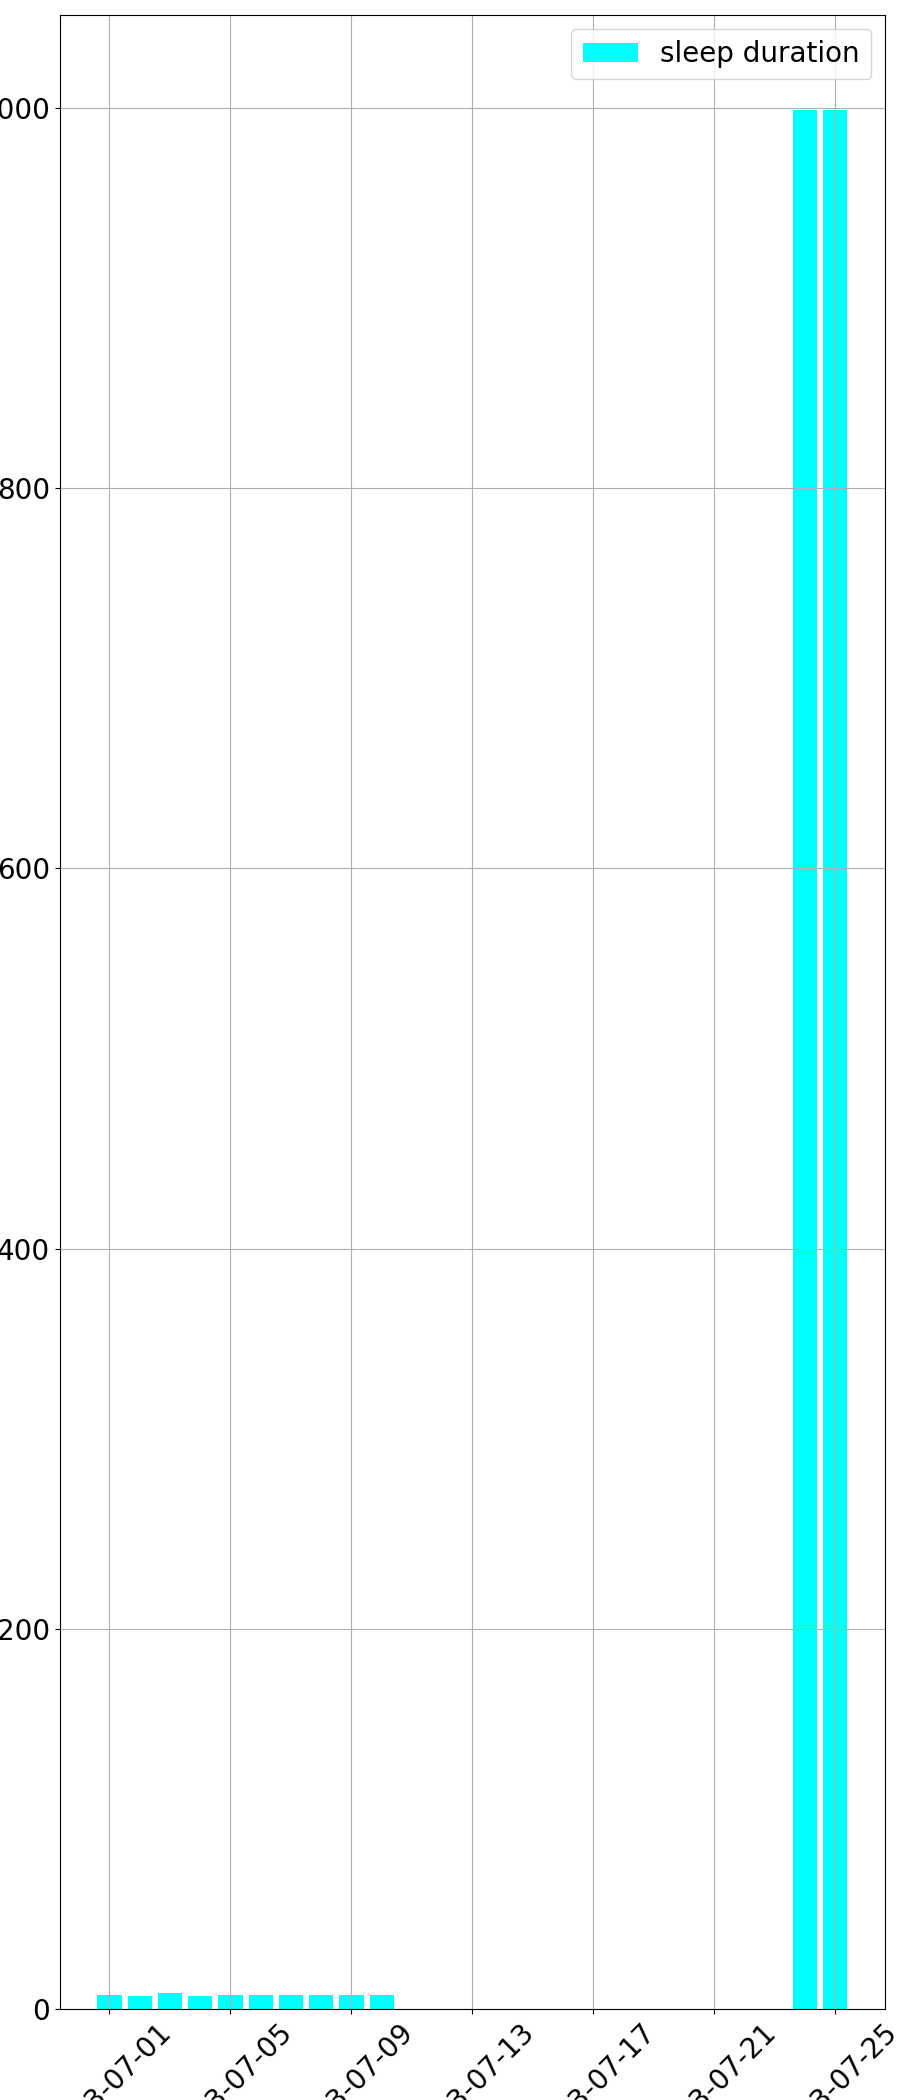
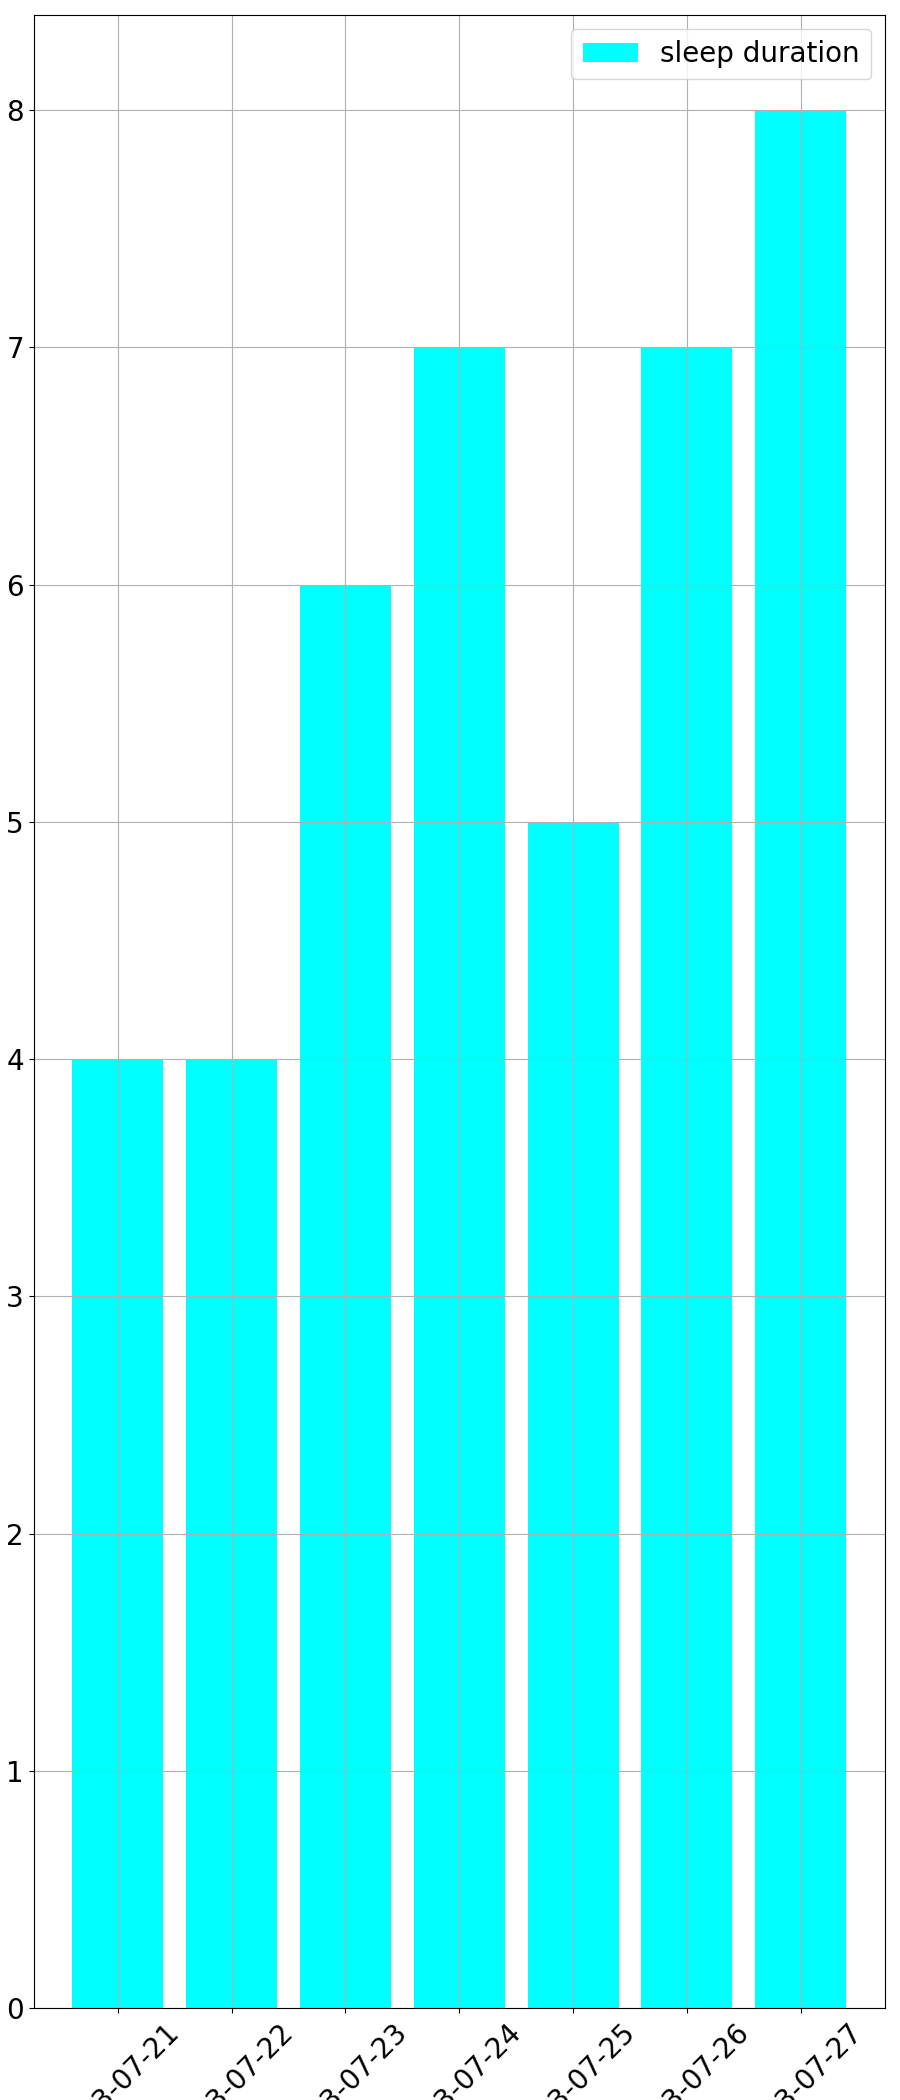
#11 s3のsleep_time.csvを更新

diff --git a/utils.py b/utils.py
@@ -34,11 +34,11 @@ def get_s3():
     return s3
 
 def plot(s3, sleep_time):
-    try:
-        s3.Object(BUCKET_NAME, "sleep_data.csv").download_file(CSV_FILE_PATH)
-        print("+ [2] Downloaded csvfile.")
-    except Exception as e:
-        print(f"DOWNLOAD ERROR: {e}")
+    # try:
+    #     s3.Object(BUCKET_NAME, "sleep_data.csv").download_file(CSV_FILE_PATH)
+    #     print("+ [2] Downloaded csvfile.")
+    # except Exception as e:
+    #     print(f"DOWNLOAD ERROR: {e}")
 
     # 現在の日付を取得
     today = datetime.now()

diff --git a/unity.py b/unity.py
@@ -7,8 +7,8 @@ import paho.mqtt.client as mqtt
 
 
 def main():
-    # host = "192.168.10.101"
-    host = "localhost"
+    host = "192.168.10.101"
+    # host = "localhost"
     topic = "feedback"
 
     client = mqtt.Client("unity")
@@ -22,8 +22,8 @@ def main():
     msg1 = {
         "request": "compute_main_function",
         "feedback": {
-            "elapsed_time": 999,
-            "sleep_time": 999,
+            "elapsed_time": 20,
+            "sleep_time": 7,
         },
     }
 

diff --git a/config.py b/config.py
@@ -20,8 +20,8 @@ event_control_queue = Queue()
 
 # MQTTの設定
 CLIENT_ID = "noimu"
-# HOST = "192.168.10.101"
-HOST = "localhost"
+HOST = "192.168.10.101"
+# HOST = "localhost"
 PORT = 1883
 KEEP_ALIVE = 60
 FEEDBACK_TOPIC = "feedback"
